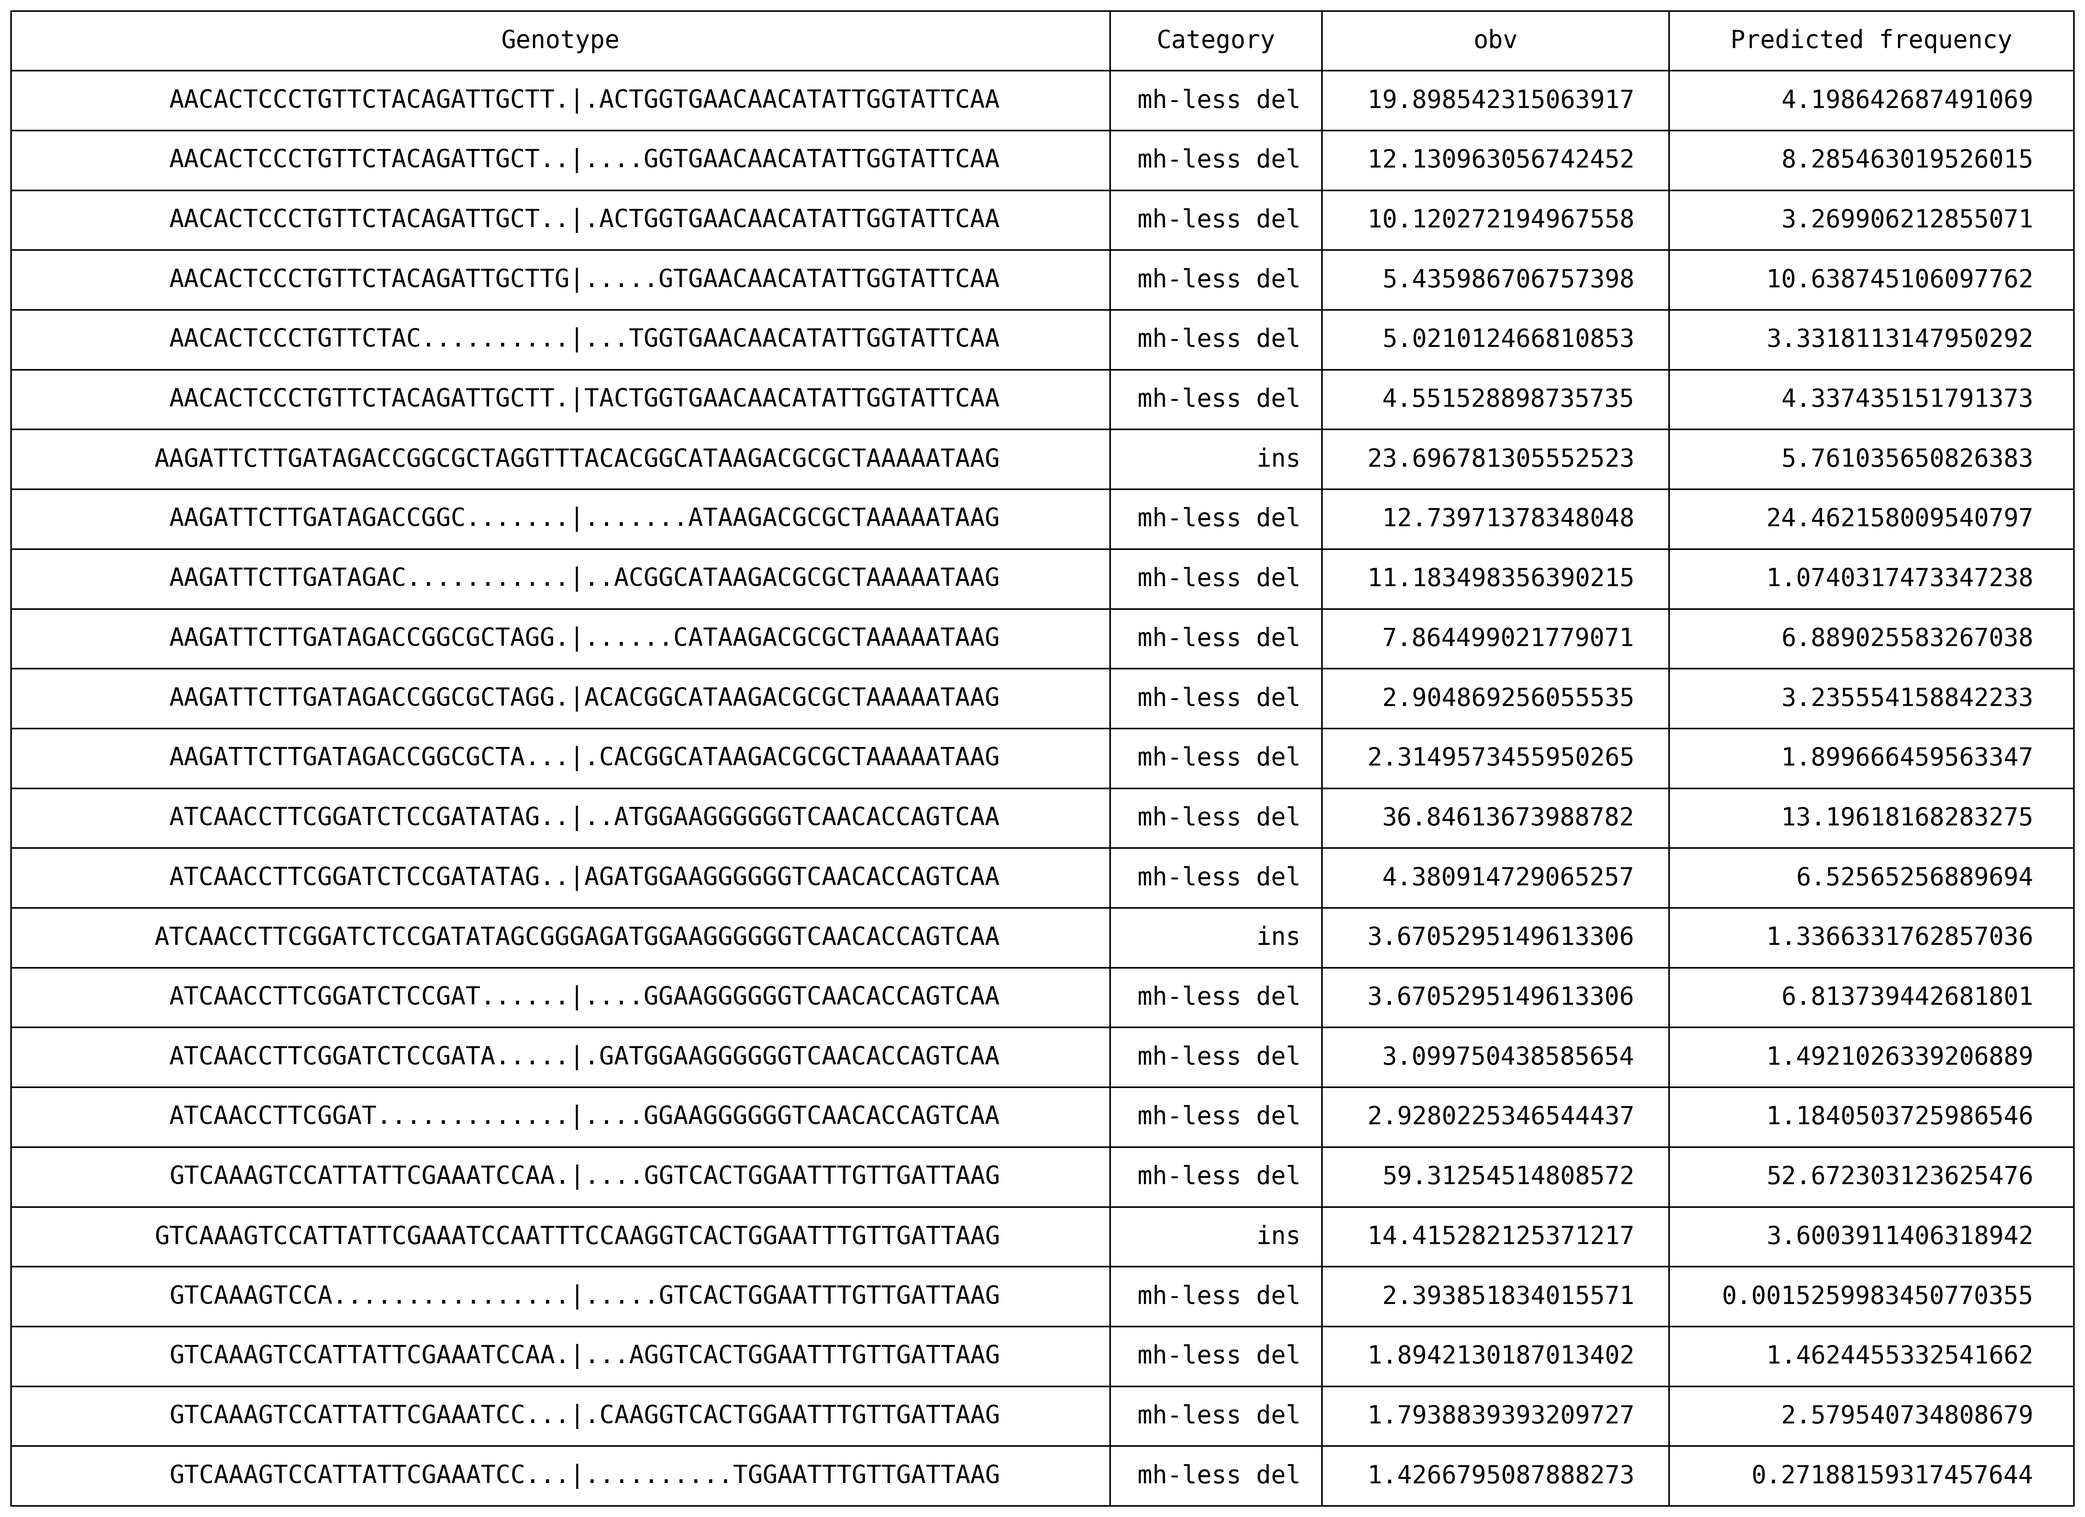
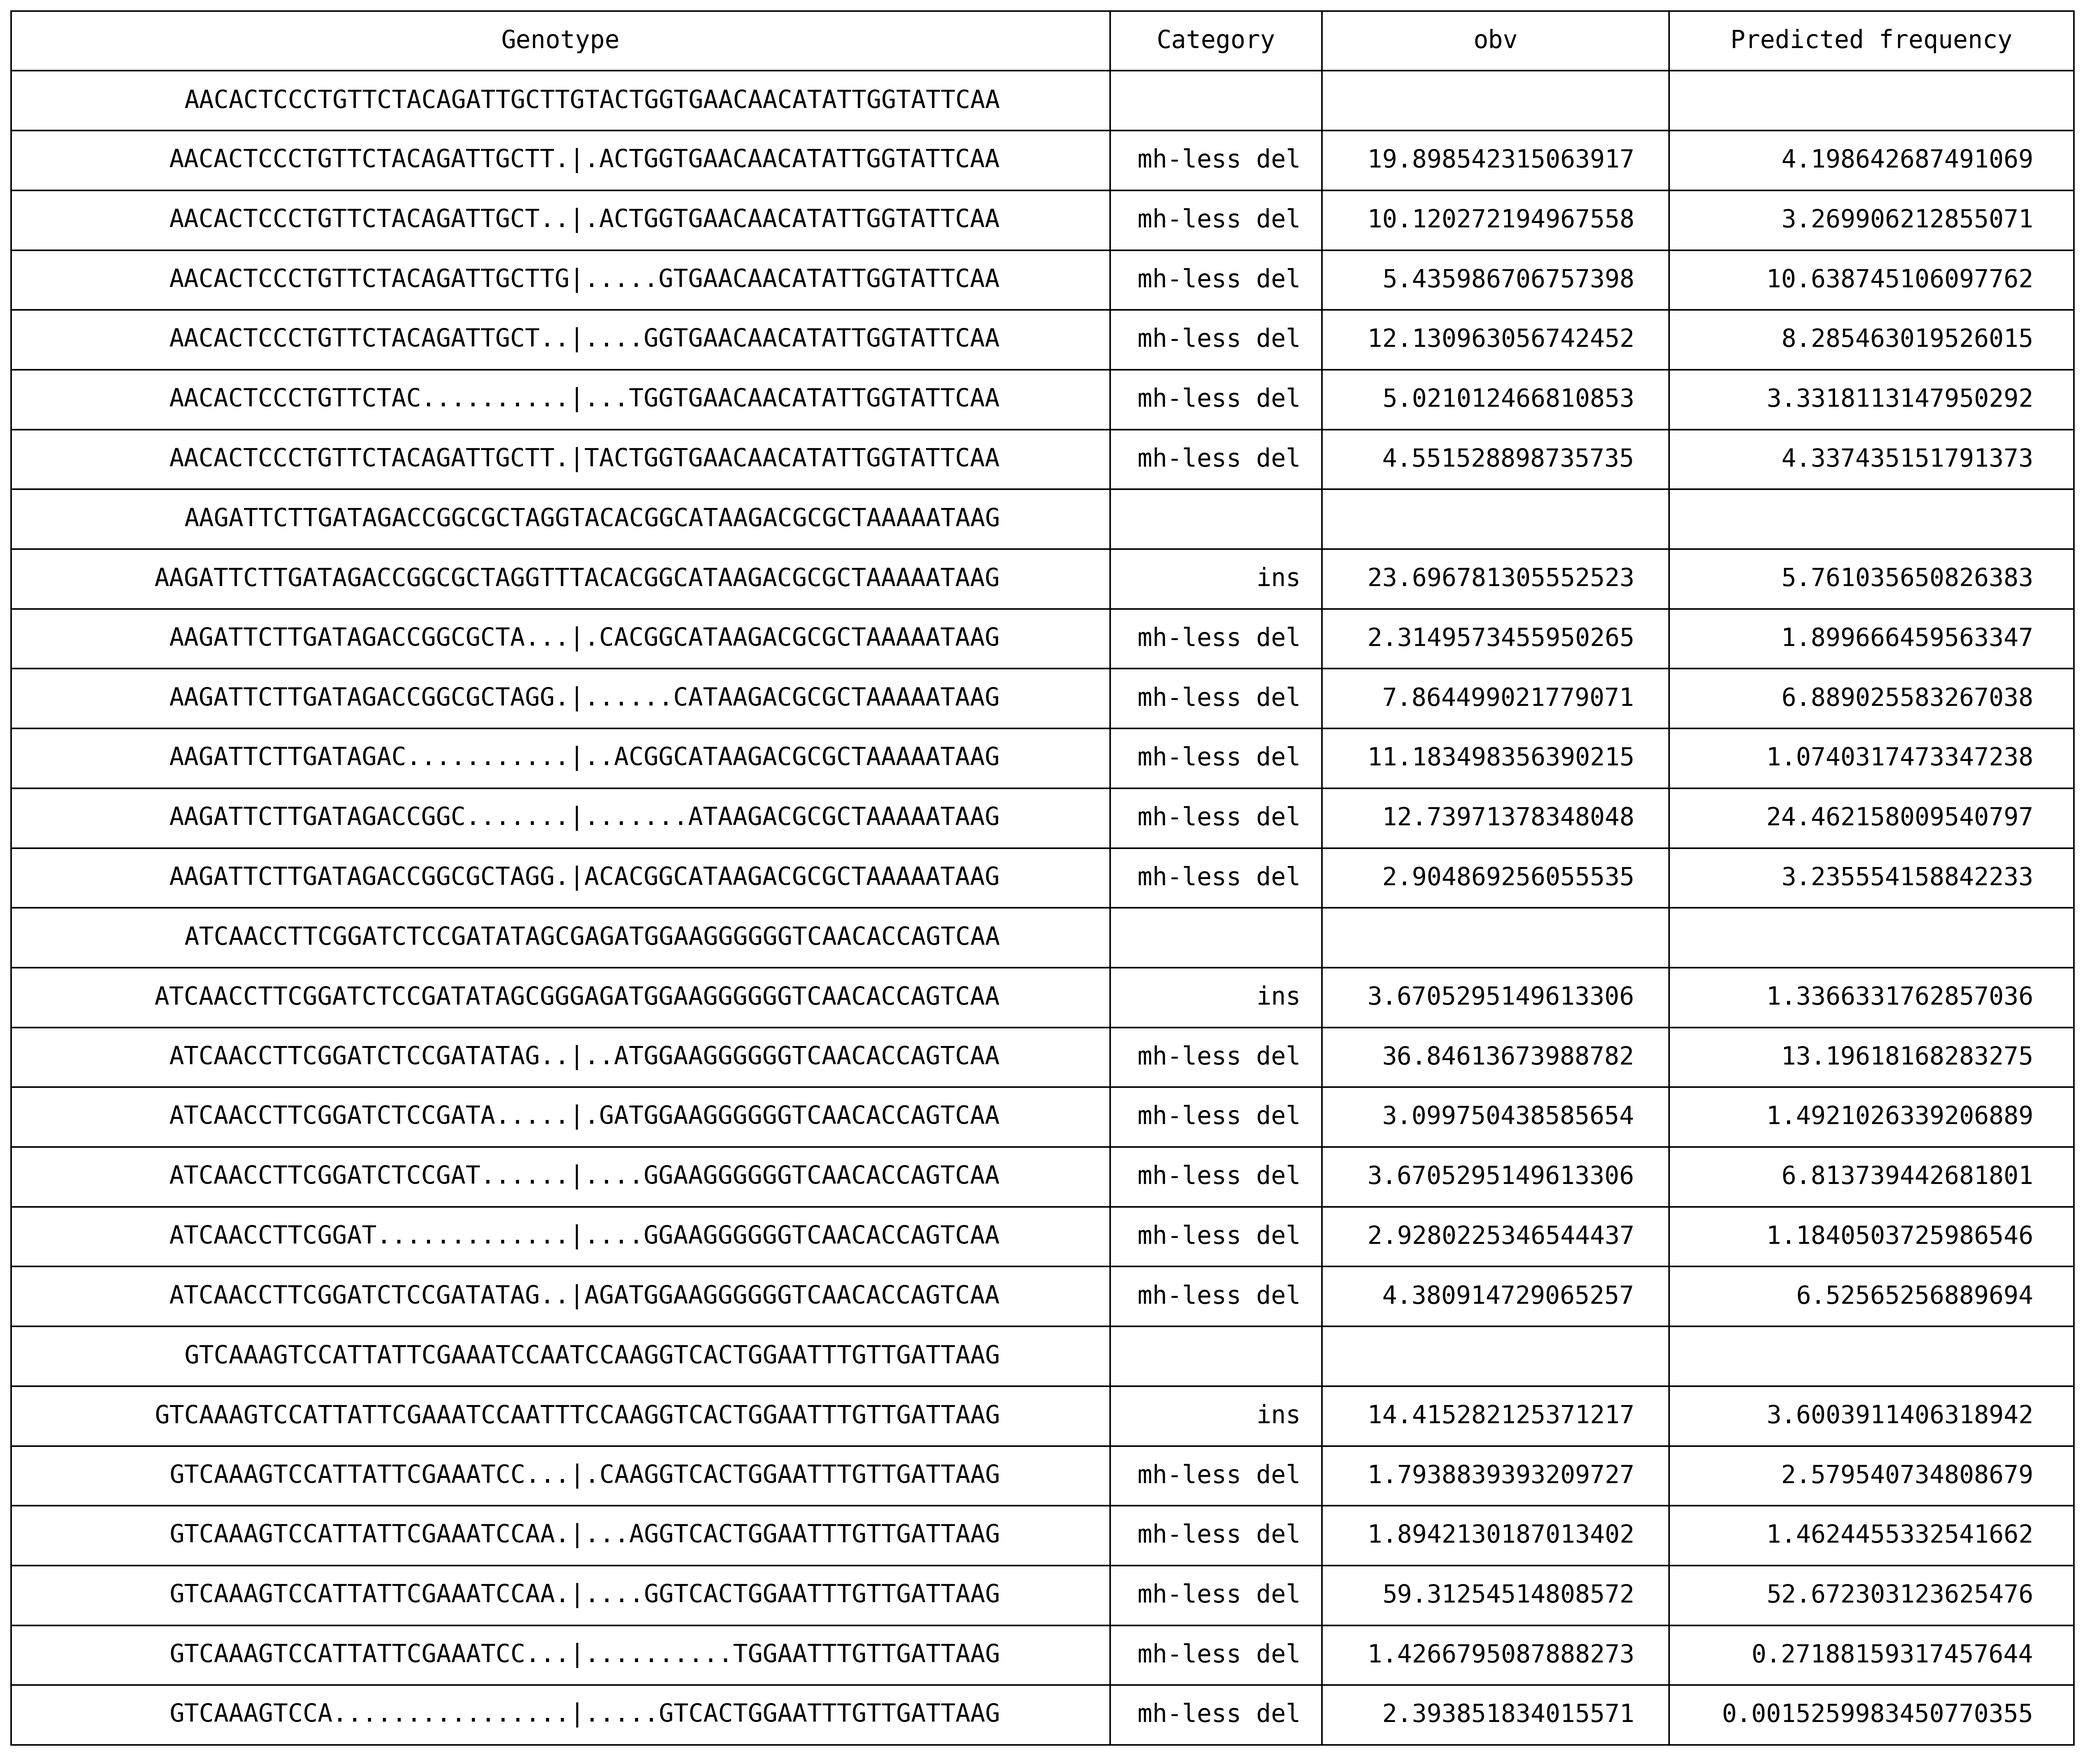
Added main sequence to figure 1e

diff --git a/generate_figures.py b/generate_figures.py
@@ -115,7 +115,14 @@ def generate_figure_1e(test_sequences, cutsite, observed_freqs):
         pred_df = add_indel_column(pred_df, stats, observed_freqs)
  
         print(pred_df.sort_values(by='Predicted frequency', ascending=False).head(6))
-        total_df.append(pred_df.sort_values(by='obv', ascending=False).head(6)[['Genotype', 'Category', 'obv', 'Predicted frequency']])
+
+        sorted_df = pred_df.sort_values(by='obv', ascending=False).head(6)[['Genotype', 'Category', 'obv', 'Predicted frequency']]
+        
+        sorted_df.loc[-1] = [sequence, '', '', '']  # adding a row
+        sorted_df.index = sorted_df.index + 1  # shifting index
+        sorted_df.sort_index(inplace=True) 
+
+        total_df.append(sorted_df)
 
     pd.reset_option('display.max_rows')
     fig = render_mpl_table(pd.concat(total_df), col_width=6.0)
